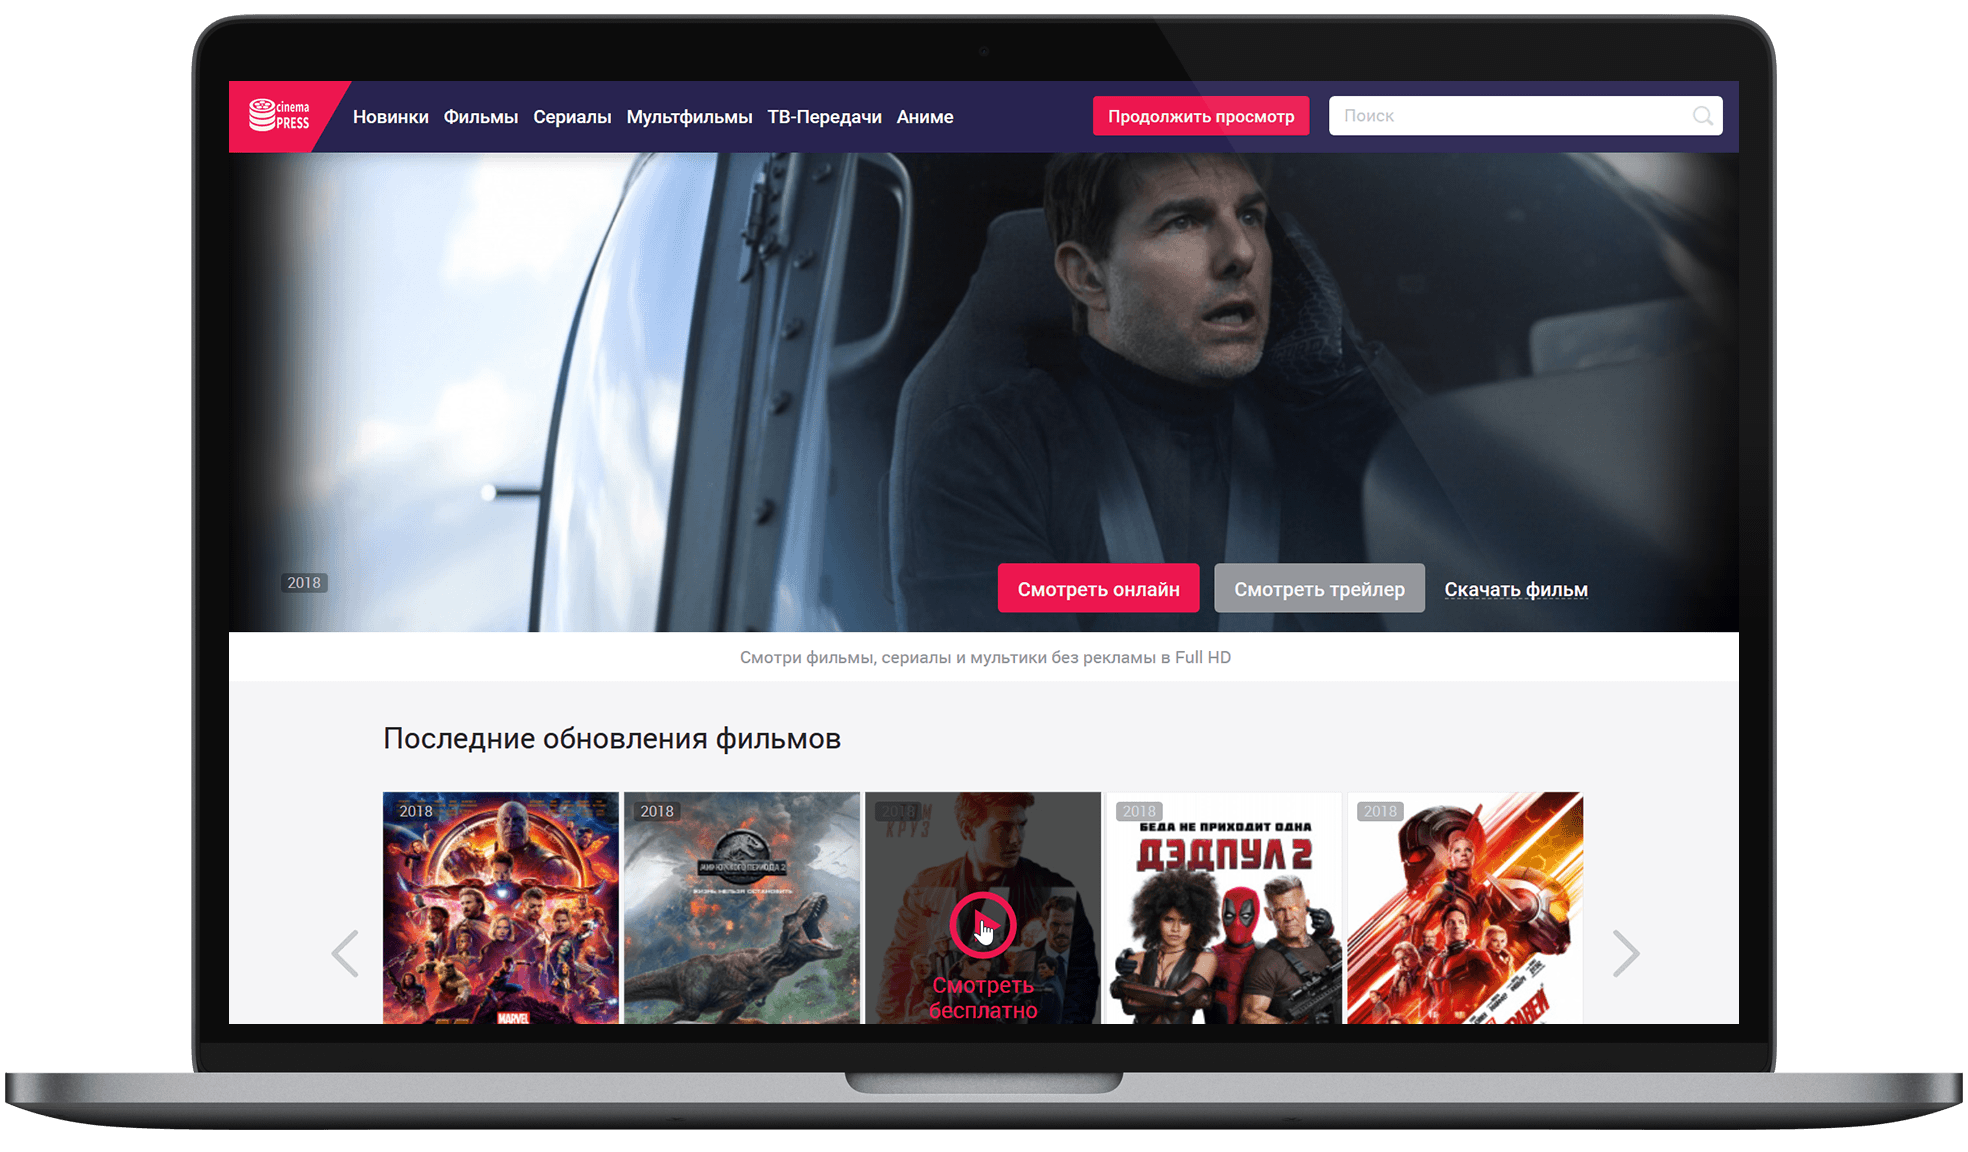
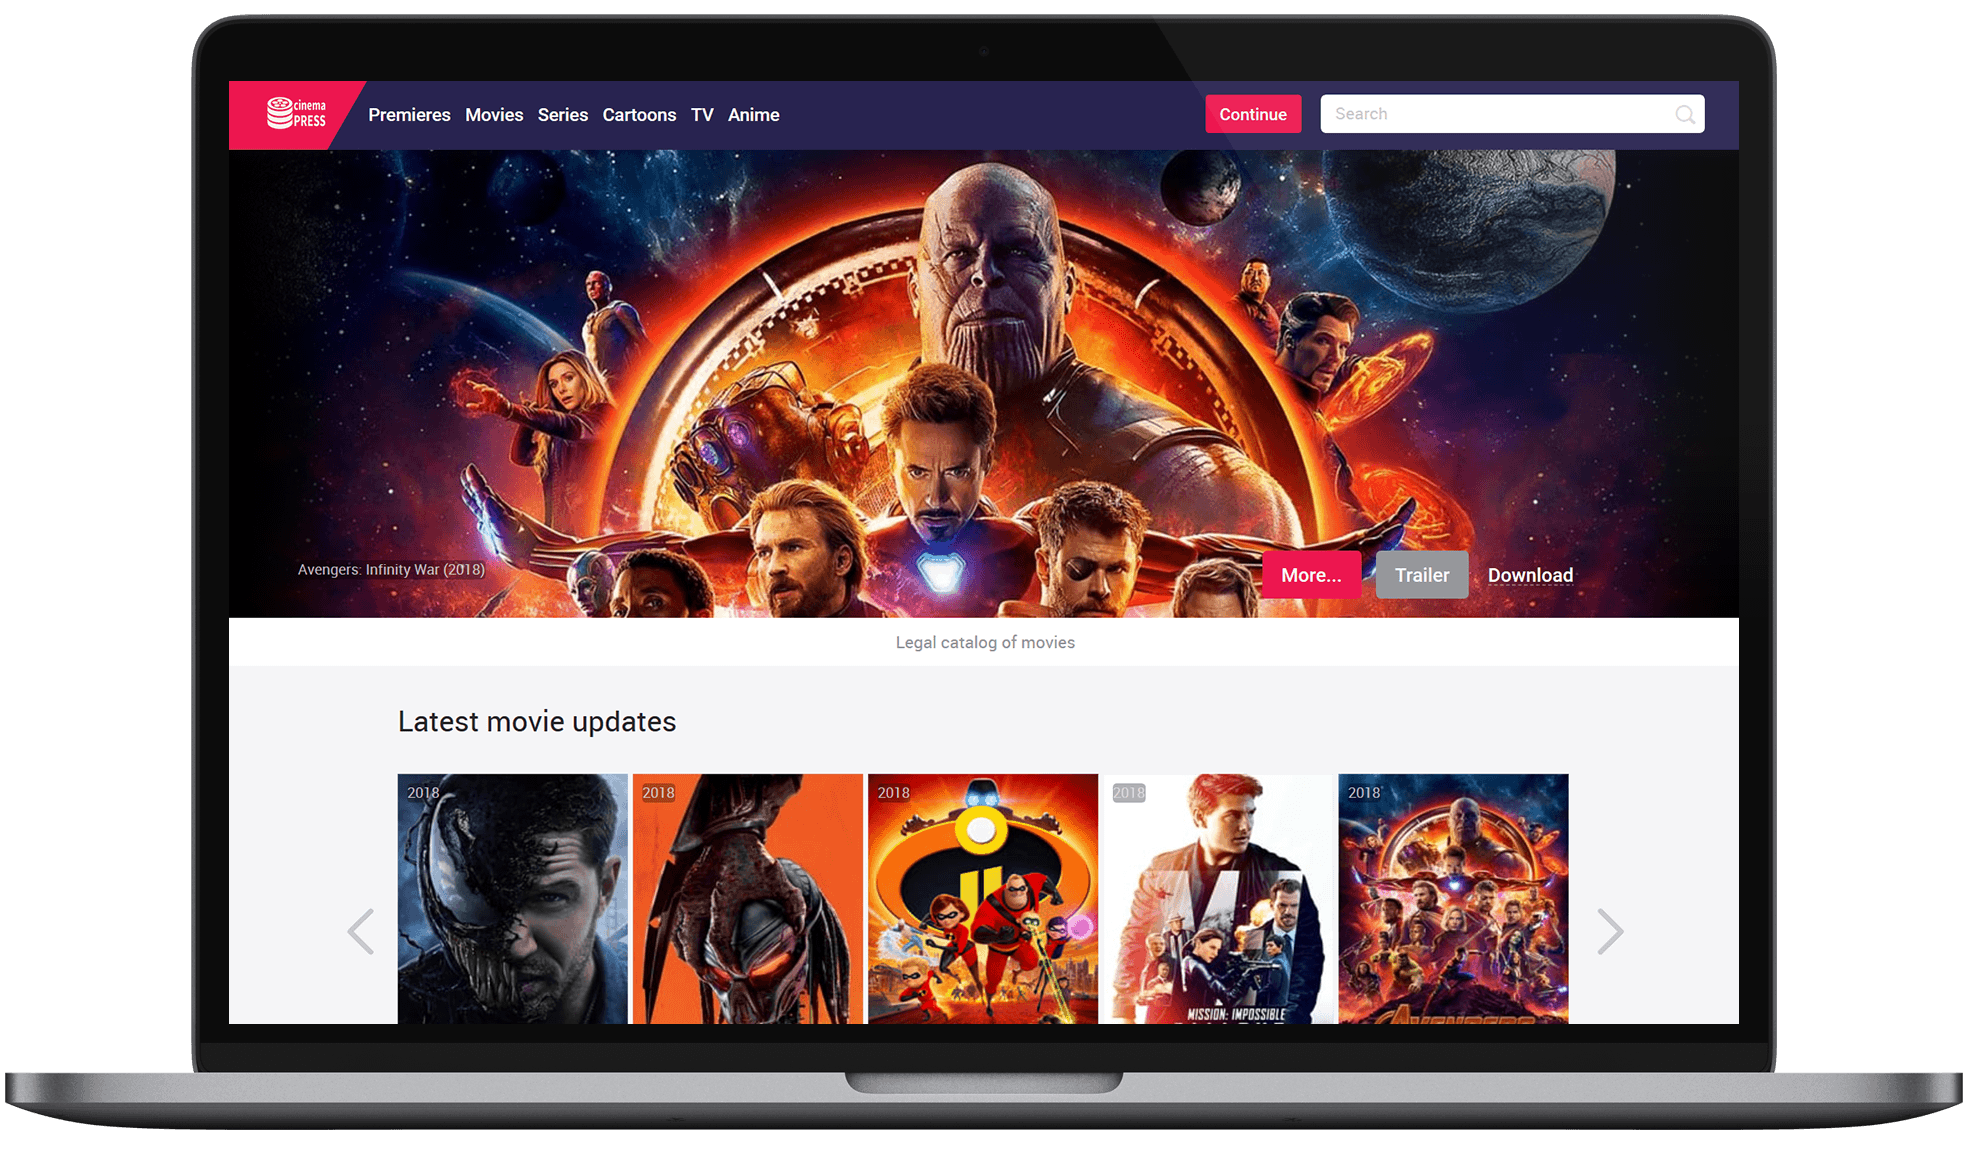
Add translate, new scr

diff --git a/README.md b/README.md
@@ -1,18 +1,29 @@
-# Шаблон «daenerys»
+# Theme «daenerys»
 
-![Шаблон «daenerys» для CinemaPress ACMS](https://raw.githubusercontent.com/CinemaPress/Theme-Daenerys/master/screenshot.png "Шаблон «daenerys» для CinemaPress ACMS")
+![Theme «daenerys» for CinemaPress ACMS](https://raw.githubusercontent.com/CinemaPress/Theme-Daenerys/master/screenshot.png "Theme «daenerys» for CinemaPress ACMS")
 
-:art: Шаблон «daenerys» для CinemaPress ACMS
+:art: Theme «daenerys» for CinemaPress ACMS
 
 - [Daenerys.CinemaPress.org](http://Daenerys.CinemaPress.org/)
 
-## Установка
+## How to install?
+1. Download [GitHub](https://github.com/CinemaPress/Theme-Daenerys/archive/master.zip) or [GitLab](https://gitlab.com/CinemaPress/Theme-Daenerys/repository/archive.zip) or [BitBucket](https://bitbucket.org/cinemapress/theme-daenerys/get/master.zip) or [Coding](https://coding.net/u/CinemaPress/p/Theme-Daenerys/git/archive/master.zip)
+2. Unpack the archive and rename the folder to **daenerys**
+3. Folder **daenerys** send to server in folder **themes**
+4. Change the name of the theme in the admin panel to **daenerys**
+
+## Installation via terminal
+```
+~# wget cinemapress.org/i -qO i && chmod +x i && ./i 3
+```
+
+## Как установить?
 1. Скачать архив с [GitHub](https://github.com/CinemaPress/Theme-Daenerys/archive/master.zip) или [GitLab](https://gitlab.com/CinemaPress/Theme-Daenerys/repository/archive.zip) или [BitBucket](https://bitbucket.org/cinemapress/theme-daenerys/get/master.zip) или [Coding](https://coding.net/u/CinemaPress/p/Theme-Daenerys/git/archive/master.zip)
 2. Распаковать архив и переименовать папку в **daenerys**
 3. Папку **daenerys** отправить на сервер в папку **themes**
 4. Изменить название темы в админ-панели на **daenerys**
 
-## Установка через установщик тем CinemaPress ACMS
+## Установка через терминал
 ```
 ~# wget cinemapress.org/i -qO i && chmod +x i && ./i 3
 ```
